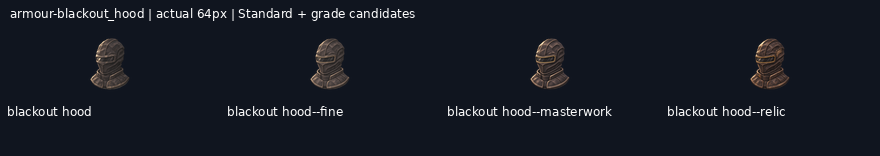
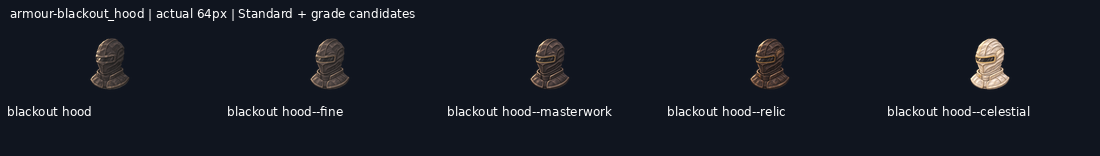
art: draw armour-blackout_hood--celestial grade candidate

diff --git a/art/_archive/gear/2026-11-19-kept-blade-grades/HANDOFF.md b/art/_archive/gear/2026-11-19-kept-blade-grades/HANDOFF.md
@@ -1,6 +1,6 @@
 # Gear grade candidates
 
-**136/208 grade candidates delivered** on `art/2026-11-19-kept-blade-grades`. Shared mailbox: https://github.com/leonpentastorm/Project-Heaven-Cry/issues/3 . See claim.json for this lane’s current Standards. Released overlapping blades reuse12 peer candidates, with3 local alternatives archived.
+**137/208 grade candidates delivered** on `art/2026-11-19-kept-blade-grades`. Shared mailbox: https://github.com/leonpentastorm/Project-Heaven-Cry/issues/3 . See claim.json for this lane’s current Standards. Released overlapping blades reuse12 peer candidates, with3 local alternatives archived.
 
 Leon requested continuous candidate production; proof approval is not fabricated. All candidates remain review-candidate, production_approved:false, implementation_ready:false, with outline.review_required:true. Exact outline is measured, never asserted unless the masks match. Per-image registration is uniform scaling/translation only, without warp, silhouette masks, filled pixels or code-drawn substitutes. The generated native remains untouched.
 
@@ -10,12 +10,12 @@ Tomorrow: fetch this branch and develop safely, read the latest issue 3 comments
 
 Peer audit: [coordination/peer-audit-2026-11-19.md](coordination/peer-audit-2026-11-19.md). Peer58 masters/232 exports and12 canonical imports are integrated with versioned alpha<8 cleanup; originals are retained. See coordination/peer-import-v2/manifest.json and post-catalog VALIDATION.json (strict margins pass, solid alpha unchanged). Peer quota resets20 November2026 at09:45:39 Bangkok time; this does not establish this session’s quota.
 
-Remaining: weapon-ork_machete--masterwork, weapon-ork_machete--relic, weapon-ork_machete--celestial, weapon-war_axe--fine, weapon-war_axe--masterwork, weapon-war_axe--relic, weapon-war_axe--celestial, weapon-parlour_pistol--fine, weapon-parlour_pistol--masterwork, weapon-parlour_pistol--relic, weapon-parlour_pistol--celestial, weapon-lever_carbine--fine, weapon-lever_carbine--masterwork, weapon-lever_carbine--relic, weapon-lever_carbine--celestial, weapon-sawn_off--fine, weapon-sawn_off--masterwork, weapon-sawn_off--relic, weapon-sawn_off--celestial, weapon-coach_gun--fine, weapon-coach_gun--masterwork, weapon-coach_gun--relic, weapon-coach_gun--celestial, weapon-legion_bullpup--fine, weapon-legion_bullpup--masterwork, weapon-legion_bullpup--relic, weapon-legion_bullpup--celestial, weapon-whisper_smg--fine, weapon-whisper_smg--masterwork, weapon-whisper_smg--relic, weapon-whisper_smg--celestial, armour-blackout_hood--celestial, armour-spotters_monocle--fine, armour-spotters_monocle--masterwork, armour-spotters_monocle--relic, armour-spotters_monocle--celestial, armour-sight_visor--fine, armour-sight_visor--masterwork, armour-sight_visor--relic, armour-sight_visor--celestial, armour-breather--fine, armour-breather--masterwork, armour-breather--relic, armour-breather--celestial, armour-sealed_visor--fine, armour-sealed_visor--masterwork, armour-sealed_visor--relic, armour-sealed_visor--celestial, armour-breacher_plate--fine, armour-breacher_plate--masterwork, armour-breacher_plate--relic, armour-breacher_plate--celestial, armour-mesh_undersuit--fine, armour-mesh_undersuit--masterwork, armour-mesh_undersuit--relic, armour-mesh_undersuit--celestial, armour-rig_belt--fine, armour-rig_belt--masterwork, armour-rig_belt--relic, armour-rig_belt--celestial, armour-field_trousers--fine, armour-field_trousers--masterwork, armour-field_trousers--relic, armour-field_trousers--celestial, armour-tactical_gloves--fine, armour-tactical_gloves--masterwork, armour-tactical_gloves--relic, armour-tactical_gloves--celestial, armour-jump_boots--fine, armour-jump_boots--masterwork, armour-jump_boots--relic, armour-jump_boots--celestial.
+Remaining: weapon-ork_machete--masterwork, weapon-ork_machete--relic, weapon-ork_machete--celestial, weapon-war_axe--fine, weapon-war_axe--masterwork, weapon-war_axe--relic, weapon-war_axe--celestial, weapon-parlour_pistol--fine, weapon-parlour_pistol--masterwork, weapon-parlour_pistol--relic, weapon-parlour_pistol--celestial, weapon-lever_carbine--fine, weapon-lever_carbine--masterwork, weapon-lever_carbine--relic, weapon-lever_carbine--celestial, weapon-sawn_off--fine, weapon-sawn_off--masterwork, weapon-sawn_off--relic, weapon-sawn_off--celestial, weapon-coach_gun--fine, weapon-coach_gun--masterwork, weapon-coach_gun--relic, weapon-coach_gun--celestial, weapon-legion_bullpup--fine, weapon-legion_bullpup--masterwork, weapon-legion_bullpup--relic, weapon-legion_bullpup--celestial, weapon-whisper_smg--fine, weapon-whisper_smg--masterwork, weapon-whisper_smg--relic, weapon-whisper_smg--celestial, armour-spotters_monocle--fine, armour-spotters_monocle--masterwork, armour-spotters_monocle--relic, armour-spotters_monocle--celestial, armour-sight_visor--fine, armour-sight_visor--masterwork, armour-sight_visor--relic, armour-sight_visor--celestial, armour-breather--fine, armour-breather--masterwork, armour-breather--relic, armour-breather--celestial, armour-sealed_visor--fine, armour-sealed_visor--masterwork, armour-sealed_visor--relic, armour-sealed_visor--celestial, armour-breacher_plate--fine, armour-breacher_plate--masterwork, armour-breacher_plate--relic, armour-breacher_plate--celestial, armour-mesh_undersuit--fine, armour-mesh_undersuit--masterwork, armour-mesh_undersuit--relic, armour-mesh_undersuit--celestial, armour-rig_belt--fine, armour-rig_belt--masterwork, armour-rig_belt--relic, armour-rig_belt--celestial, armour-field_trousers--fine, armour-field_trousers--masterwork, armour-field_trousers--relic, armour-field_trousers--celestial, armour-tactical_gloves--fine, armour-tactical_gloves--masterwork, armour-tactical_gloves--relic, armour-tactical_gloves--celestial, armour-jump_boots--fine, armour-jump_boots--masterwork, armour-jump_boots--relic, armour-jump_boots--celestial.
 
 Service-rejected requests (do not repeatedly resubmit): weapon-coach_gun--fine, weapon-legion_bullpup--fine, weapon-lever_carbine--fine, weapon-ork_machete--masterwork, weapon-parlour_pistol--fine, weapon-sawn_off--fine, weapon-war_axe--fine, weapon-whisper_smg--fine.
 
 Waiting on rejected prerequisites: weapon-coach_gun--celestial, weapon-coach_gun--masterwork, weapon-coach_gun--relic, weapon-legion_bullpup--celestial, weapon-legion_bullpup--masterwork, weapon-legion_bullpup--relic, weapon-lever_carbine--celestial, weapon-lever_carbine--masterwork, weapon-lever_carbine--relic, weapon-ork_machete--celestial, weapon-ork_machete--relic, weapon-parlour_pistol--celestial, weapon-parlour_pistol--masterwork, weapon-parlour_pistol--relic, weapon-sawn_off--celestial, weapon-sawn_off--masterwork, weapon-sawn_off--relic, weapon-war_axe--celestial, weapon-war_axe--masterwork, weapon-war_axe--relic, weapon-whisper_smg--celestial, weapon-whisper_smg--masterwork, weapon-whisper_smg--relic.
 
-Ready independent next steps, in queue order: armour-blackout_hood--celestial, armour-spotters_monocle--fine, armour-sight_visor--fine, armour-breather--fine, armour-sealed_visor--fine, armour-breacher_plate--fine, armour-mesh_undersuit--fine, armour-rig_belt--fine, armour-field_trousers--fine, armour-tactical_gloves--fine, armour-jump_boots--fine. Other pending grades follow their preceding grade.
+Ready independent next steps, in queue order: armour-spotters_monocle--fine, armour-sight_visor--fine, armour-breather--fine, armour-sealed_visor--fine, armour-breacher_plate--fine, armour-mesh_undersuit--fine, armour-rig_belt--fine, armour-field_trousers--fine, armour-tactical_gloves--fine, armour-jump_boots--fine. Other pending grades follow their preceding grade.
 
 Runtime handoff: implementation_ready:false records review status but does not gate the web asset builder. The builder emits grade asset keys; the current UI gear resolver still needs grade-aware selection. Do not claim that runtime grade selection is implemented by these art deliveries.
